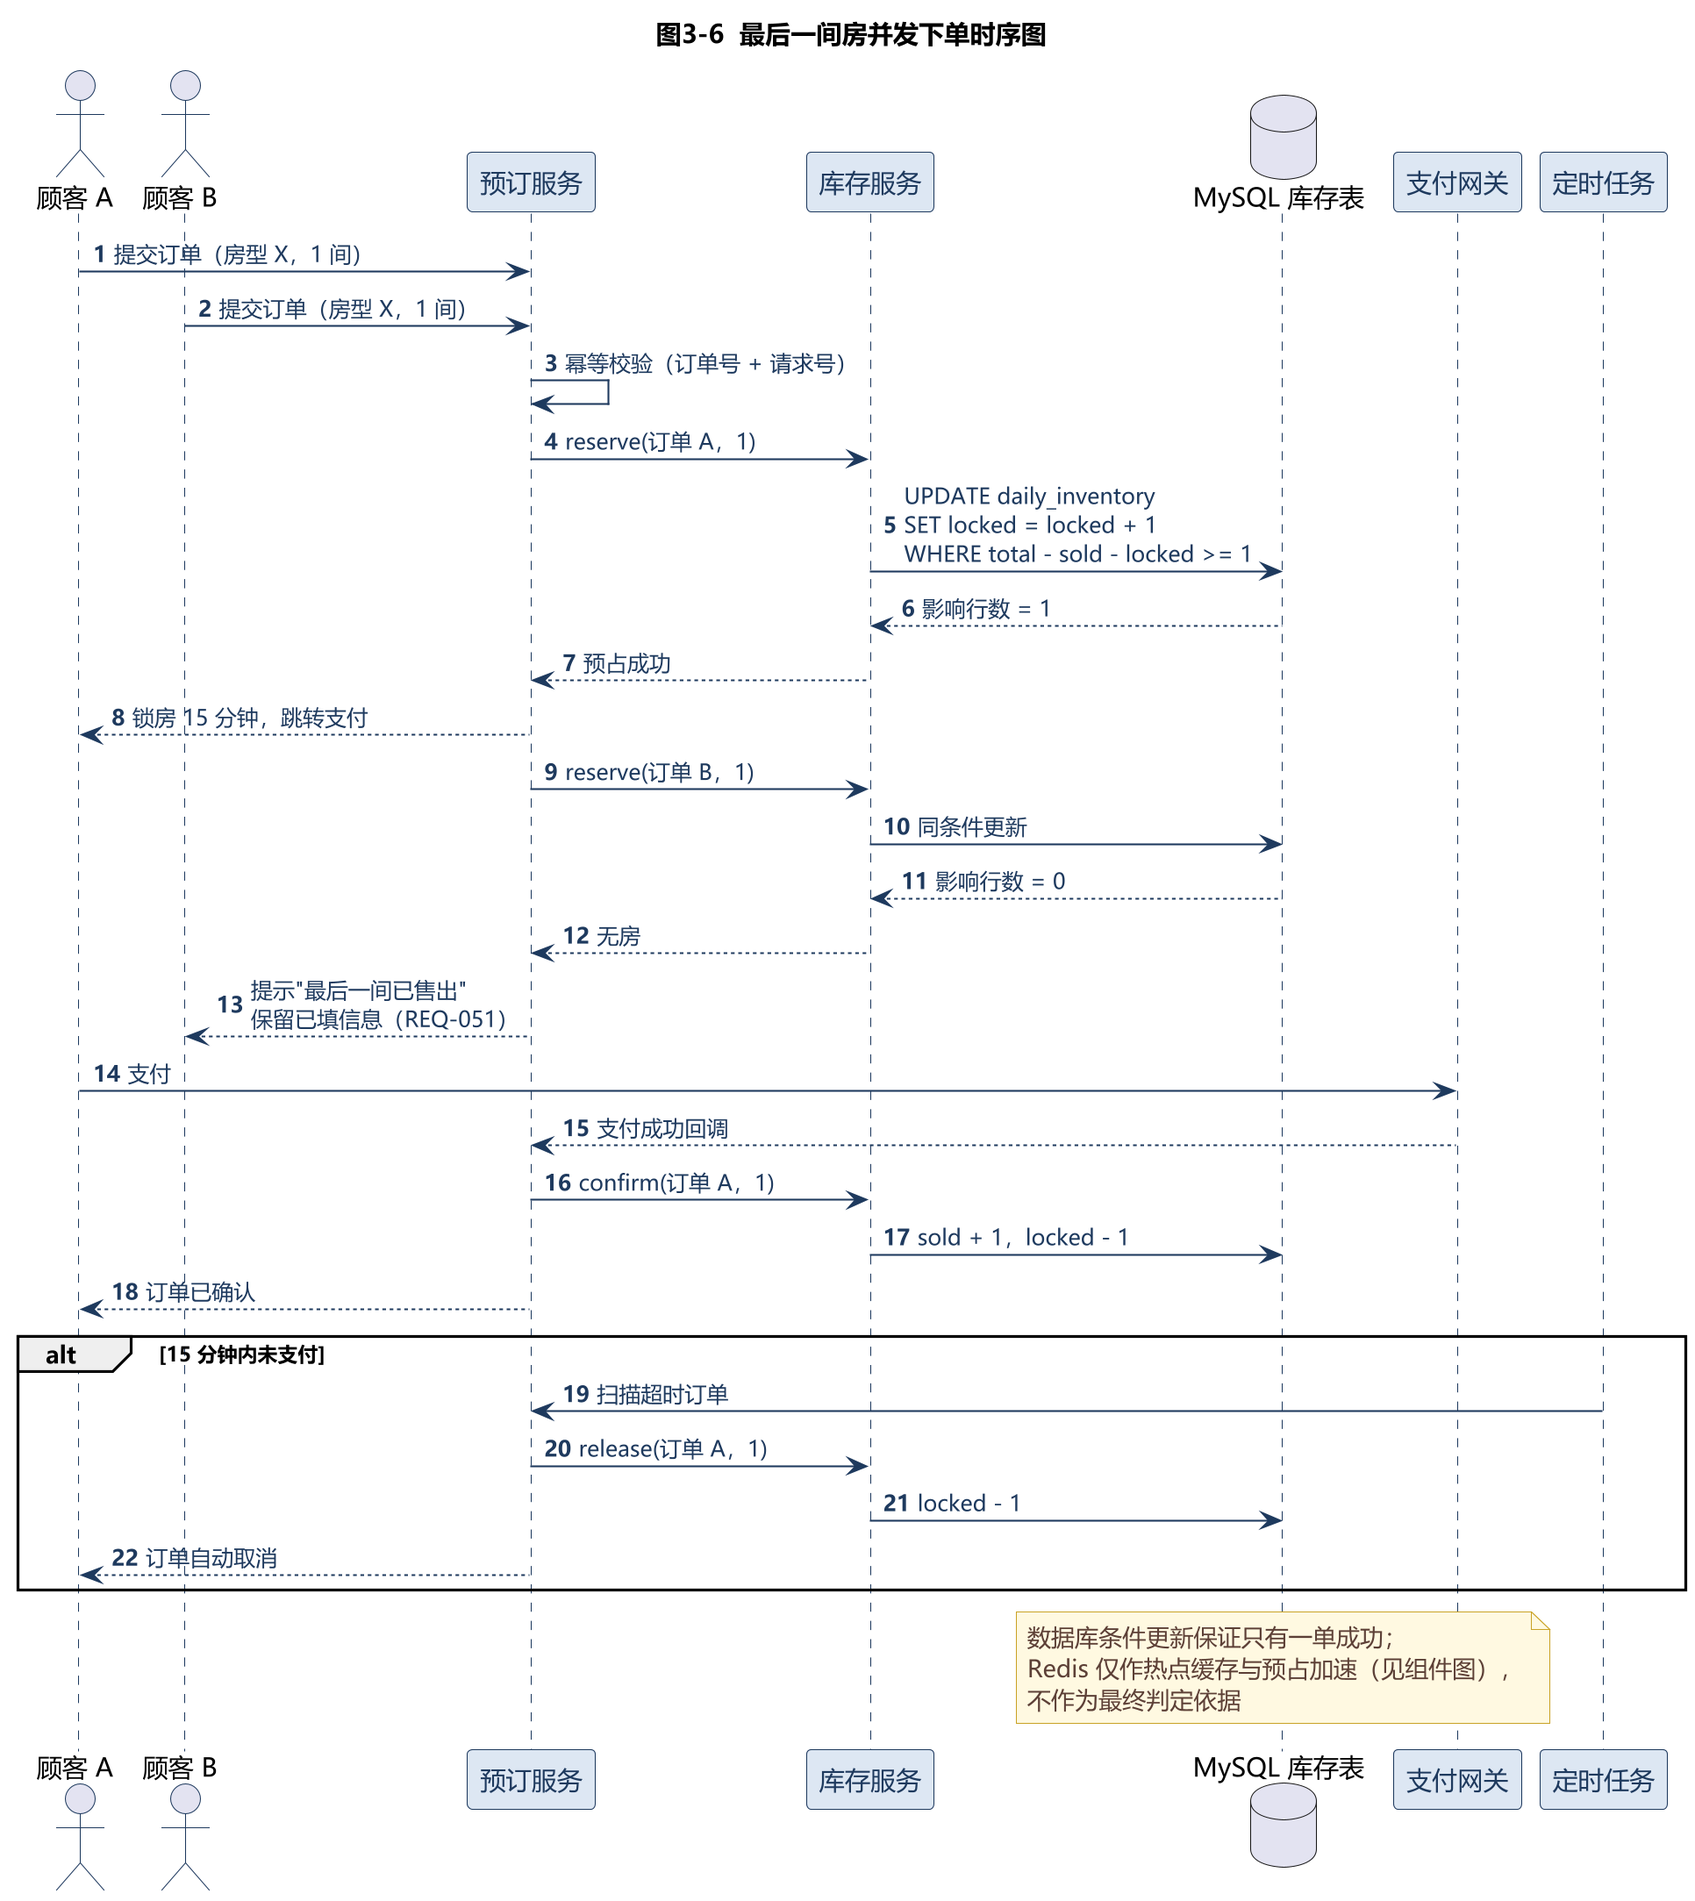
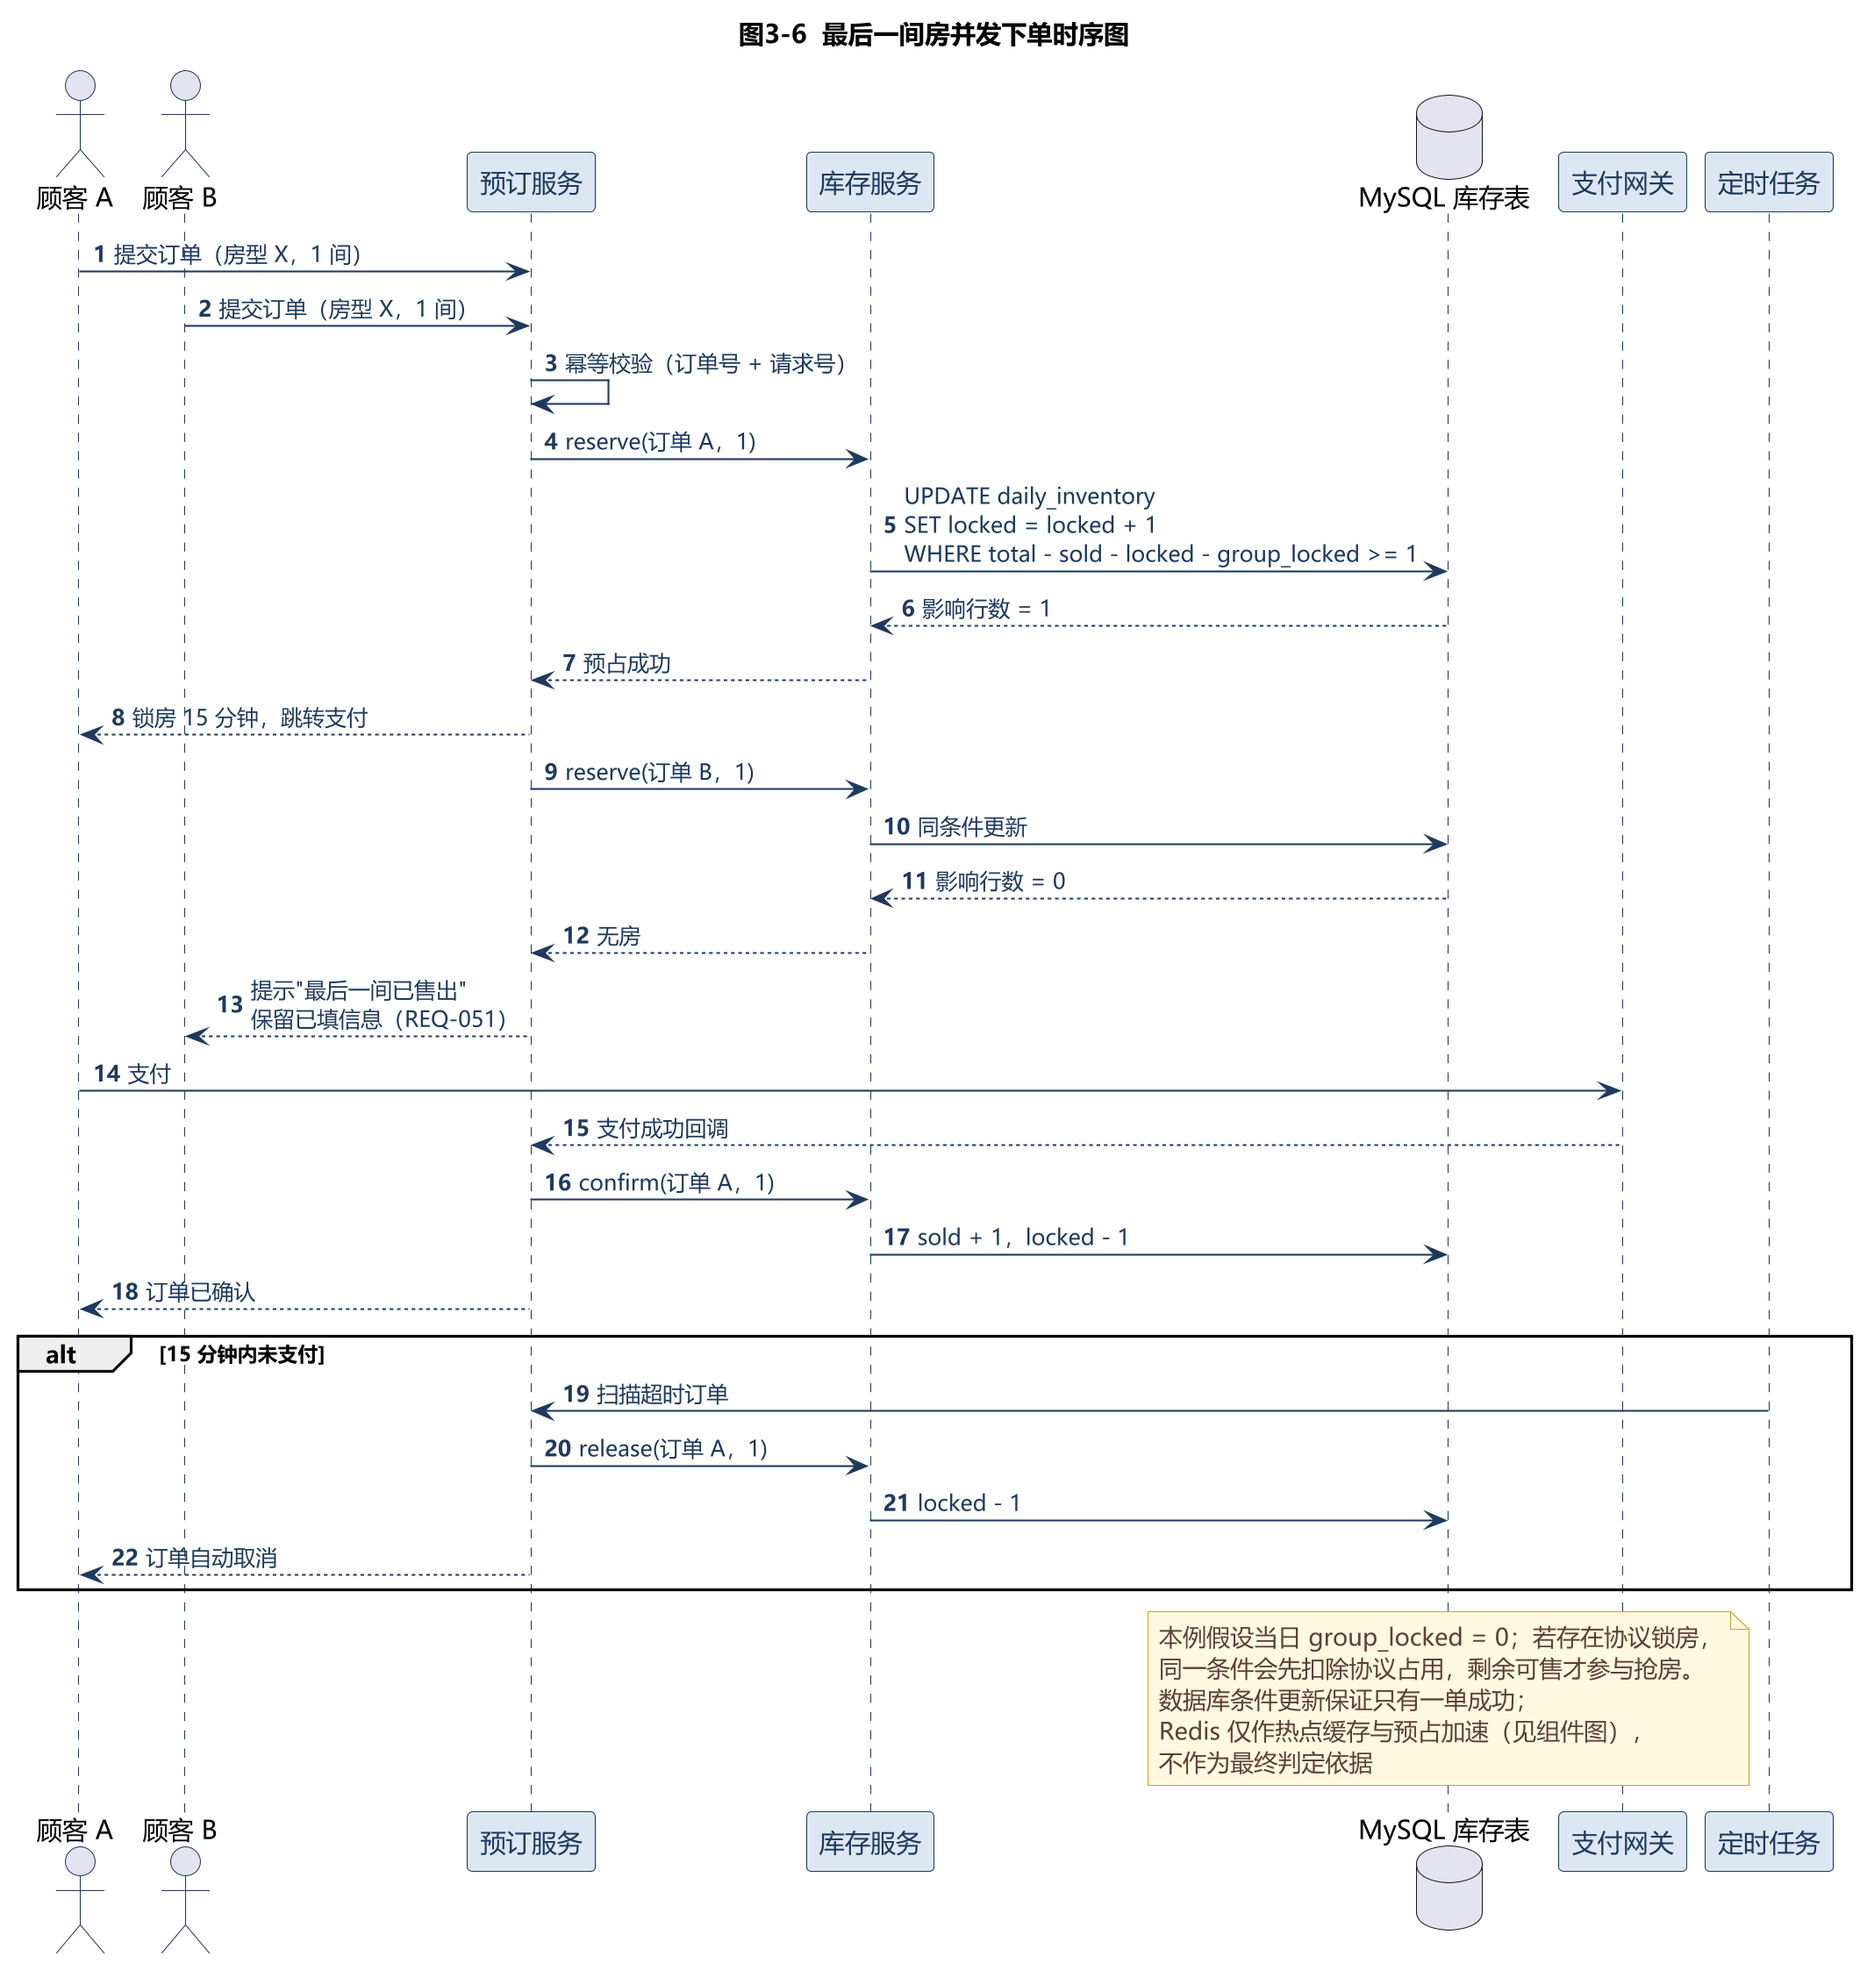
fix(lab2): 统一协议锁房在各图中的口径（REQ-008）
- 类图：DailyInventory 增加 groupLocked，available 扣除协议锁房；GroupLock 增加 releaseAt 与转订单说明
- 时序图：条件更新改为 total - sold - locked - group_locked，并注明示例假设
- 组件图：M2 说明协议锁房写入 group_lock，S3 调度负责到期释放
- 状态图/活动图：图例说明协议锁房不属于订单状态、不经过下单流程
- 部署图：新增调度任务节点（订单超时 / 锁房到期）

diff --git a/lab2/UML/README.md b/lab2/UML/README.md
@@ -72,10 +72,28 @@
 
 ---
 
+## 2.1 协议锁房在各图中的落点（2026-11-10 补充）
+
+协议锁房（REQ-008）不是一个订单状态，而是"把 N 间房从公开可售中预留出来"的库存动作。它必须同时出现在库存口径、架构和流程说明里，否则图与图之间会打架。
+
+| 图 | 落点 | 说明 |
+|---|---|---|
+| 用例图 | 店长 → 协议锁房 | 创建/释放是店长的用例 |
+| 类图 | `GroupLock` + `DailyInventory.groupLocked` | `available = total - sold - locked - groupLocked`；`GroupLock` 增加 `releaseAt` |
+| 时序图 | `WHERE total - sold - locked - group_locked >= 1` | 抢最后一间时先扣协议占用；图中假设 `group_locked = 0` |
+| 组件图 | M2 的 note + 图例 S3 | 锁房写 `group_lock`、逐日累加；到期由 S3 调度释放 |
+| 状态图 | 底部图例 | 明确"协议锁房不进入订单状态机"，单独管理生效/释放/转订单 |
+| 活动图 | 底部图例 | 协议锁房由店长单独创建，不经过散客下单流程 |
+| 部署图 | "调度任务"节点 | 负责订单超时取消与协议锁房到期释放 |
+
+尚未落到图上的：协议锁房在 UI（库存日历）中的展示，等 UI 阶段补。
+
+---
+
 ## 3. 已知问题（人工修改时优先处理）
 
 1. **用例图偏长（1228×2010）**：16 个用例纵向排列，A4 整页可读但偏小。建议拆成"顾客与门店端""集团端"两张，或压缩到 10 个顶层用例。
-2. **类图偏宽（4042×1586）**：建议横排整页；若要竖排，需再拆"交易域/支撑域"。
+2. **类图偏宽（4142×1711）**：建议横排整页；若要竖排，需再拆"交易域/支撑域"。
 3. **部署图有两条跨线**（报表只读、导出文件），可调整节点声明顺序或改用 `left to right direction` 重排。
 4. **组件图没有包框**：层次靠图例，若老师要求严格分层，可手工加 `package` 后微调。
 5. **活动图无泳道**：责任方写在动作前缀；若必须用泳道，建议只保留"顾客 / 系统 / 门店"三条，避免嵌套切换。
